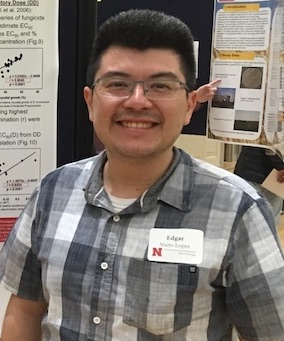
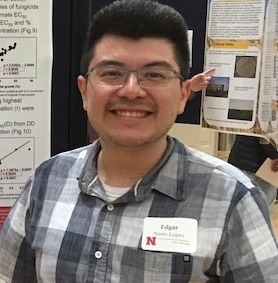
to update and add photos

diff --git a/expectations.html b/expectations.html
@@ -353,17 +353,19 @@ div.tocify {
 </div>
 <div id="work-hours" class="section level3">
 <h3>Work hours</h3>
-<p>GRAs are part-time salaried positions that expect 19.6 hours of work per week during the academic year and for 40 hours per week during academic breaks and summer sessions. Additional time directed towards research is expected when you are enrolled in credit hours for research and/or thesis/dissertation writing. Because a GRA is a salaried position, these work hours are the expectation and not recorded on a time sheet. The actual amount of time spent on research can vary considerably. You are expected to manage your time effectively. Poor time management at the beginning of a graduate program can be especially damaging because even as little as 10 minutes per day spent off task adds up to more than a week of time lost by the end of the year. Now, consider what an opportunity that time offers! <strong><em><span style="color:black">If you spend just 10 minutes per day on writing your first manuscript, you’ll have spent more than an entire 40-hour work week by the end of the first year.</span></em></strong> Moreover, there is no fixed amount of time required to complete your master’s or dissertation. Thus, the sooner you complete the outlined projects, the sooner you will graduate.<a href="#fn2" class="footnoteRef" id="fnref2"><sup>2</sup></a></p>
+<p>GRAs are part-time salaried positions that expect 19.6 hours of work per week during the academic year and for 40 hours per week during academic breaks and summer sessions. Additional time directed towards research is expected when you are enrolled in credit hours for research and/or thesis/dissertation writing. Because a GRA is a salaried position, these work hours are the expectation and not recorded on a time sheet. The actual amount of time spent on research can vary considerably from week-to-week, depending on the timing of important deadlines and requirements of the laboratory or field experiments.</p>
+<p>You are expected to manage your time effectively. Poor time management at the beginning of a graduate program can be especially damaging because even as little as 10 minutes per day spent off task adds up to more than a week of time lost by the end of the year. Now, consider what an opportunity that time offers! <strong><em><span style="color:black">If you spend just 10 minutes per day on writing your first manuscript, you’ll have spent more than an entire 40-hour work week by the end of the first year.</span></em></strong> Moreover, there is no fixed amount of time required to complete your master’s or dissertation. Thus, the sooner you complete the outlined projects, the sooner you will graduate.<a href="#fn2" class="footnoteRef" id="fnref2"><sup>2</sup></a></p>
 <p><br></p>
 </div>
 <div id="face-time" class="section level3">
 <h3>Face time</h3>
-<p>Students should develop strategies for optimal productivity. Graduate students in my lab are allowed to work from home or any other place that allows them increased productivity. However, there are benefits to being seen and present in our department on a regular basis (this is called “face time”). Your colleagues and professors will notice if you are working in the building daily and you will gain a reputation as being hard working and reliable. <strong><em><span style="color:black">This reputation will be useful once you are looking for a job and may need references from more than one professor in the department.</span></em></strong> Being present in the department daily will also increase your opportunity for collaboration with other students and enable you to learn from others you interact with. Naturally, newer students will be present at the department more often than those who have only the thesis or dissertation left to complete. However, being present without being productive is not a good use of time and will not lead to benefits. For this reason, it is your responsibility to set a work schedule for yourself that will maximize both productivity and visibility.</p>
+<p>Students should develop strategies for optimal productivity. Graduate students in my lab are allowed to work from home or any other place that allows them increased productivity. However, there are benefits to being seen and present in our department on a regular basis (this is called “face time”). Your colleagues and professors will notice if you are working in the building daily and you will gain a reputation as being hard working and reliable. <strong><em><span style="color:black">This reputation will be useful once you are looking for a job and may need references from more than one professor in the department.</span></em></strong></p>
+<p>Being present in the department daily will also increase your opportunity for collaboration with other students and enable you to learn from others you interact with. Naturally, newer students will be present at the department more often than those who have only the thesis or dissertation left to complete. However, being present without being productive is not a good use of time and will not lead to benefits. For this reason, it is your responsibility to set a work schedule for yourself that will maximize both productivity and visibility.</p>
 <p><br></p>
 </div>
 <div id="sick-leave" class="section level3">
 <h3>Sick leave</h3>
-<p>I do not expect you to work while you are sick. It’s better to stay home and recover. You should notify me via email if you will be out of the office due to illness. If longer periods of leave are needed, such as for family/child illness, medical issues, or funeral leave, please let me know so we can discuss a plan for your work to avoid setbacks.</p>
+<p>I do not expect you to work while you are sick. It’s better to stay home and recover. You should notify me via email if you will be out of the office due to illness. If longer periods of leave are needed, such as for family/child illness, medical issues, mental health, or funeral leave, please let me know so we can discuss a plan for your work to avoid setbacks.</p>
 <p><br></p>
 </div>
 <div id="requesting-vacation-time" class="section level3">
@@ -373,7 +375,8 @@ div.tocify {
 </div>
 <div id="vacation-time-estimate" class="section level3">
 <h3>Vacation time estimate</h3>
-<p>It is unlikely for you to receive approval of a request for more vacation time than an employee with a full-time 12-month appointment would accumulate. For example, in the 1st through 5th year of employment, <strong><em><span style="color:black">full-time employees accrue one vacation day per month</span></em></strong>. Thus, a person who began employment on August 15th would accrue four vacation days by December 15th. This time can be combined with UNL holidays (when UNL is closed) for a total time off of 2-weeks during the winter break. This amount of vacation during the winter holiday assumes no vacation time was taken prior to the winter holiday. The following year, it would be possible to take up to 3 weeks off during the winter break. Since time during academic breaks, winter holiday, and summers offer the opportunity and expectation to complete more research (40 hours per week), taking this time off can be costly to your research progress. Attending class is also expected, so classes should not be skipped for vacation either. For this reason, approval of vacation time is based performance and progress towards the degree.</p>
+<p>It is unlikely for you to receive approval of a request for more vacation time than an employee with a full-time 12-month appointment would accumulate. For example, in the 1st through 5th year of employment, <strong><em><span style="color:black">full-time employees accrue one vacation day per month</span></em></strong>. Thus, a person who began employment on August 15th would accrue four vacation days by December 15th. This time can be combined with UNL holidays (when the University offices are closed) for a total time off of 2-weeks during the winter break. This amount of vacation during the winter holiday assumes no vacation time was taken prior to the winter holiday. The following year, it would be possible to take up to 3 weeks off during the winter break.</p>
+<p>Since time during academic breaks, winter holiday, and summers offer the opportunity and expectation to complete more research (40 hours per week), taking this time off can be costly to your research progress. Attending class is also expected, so classes should not be skipped for vacation either. For this reason, approval of vacation time is based performance and progress towards the degree.</p>
 <p><br></p>
 </div>
 <div class="footnotes">

diff --git a/people.html b/people.html
@@ -353,62 +353,82 @@ div.tocify {
 </ul>
 <p><br></p>
 </div>
-<div id="postdoctoral-scholars" class="section level3">
-<h3>Postdoctoral Scholars</h3>
-<div class="figure">
-<img src="images/ThomasMiorini_InoculatingFlowers.JPG" title="Thomas J.J. Miorini" class="custom_circle grow" />
-
-</div>
+<div id="research-technologist" class="section level3">
+<h3>Research Technologist</h3>
 <ul>
-<li><a href="https://plantpathology.unl.edu/thomas-justo-miorini">Thomas J.J. Miorini</a>, Ph.D., April 2016 to April 2017; January 2018 to <strong>present</strong></li>
+<li>Rebecca Higgins, October 2018 to <strong>present</strong>. Becky is responsible for the <em>Sclerotinia sclerotiorum</em> bean line evaluation research and maintains the culture collection.</li>
 </ul>
-<div class="figure">
-<img src="images/ZhianKamvar2017.jpg" title="Zhian N. Kamvar" class="custom_circle grow" />
-
-</div>
-<ul>
-<li><a href="https://zkamvar.github.io/"> Zhian N. Kamvar</a>, Ph.D., Jan. 2017 to <strong>present</strong></li>
-</ul>
+<p><br></p>
 <div class="figure">
 <img src="images/MargaritaMarroquin-Guzman_2017.jpeg" title="Margarita Marroquin-Guzman" class="custom_circle grow" />
 
 </div>
+</div>
+<div id="postdoctoral-scholars" class="section level3">
+<h3>Postdoctoral Scholars</h3>
 <ul>
-<li>Margarita Marroquin-Guzman, Ph.D., June 2017 to <strong>present</strong></li>
+<li>Margarita Marroquin-Guzman, Ph.D., June 2017 to <strong>present</strong>. Margarita is currently working on the meta-community analysis of the microbial communities associated with different cover crops in Nebraska.</li>
 </ul>
 <p><br></p>
 </div>
-<div id="graduate-assistants" class="section level3">
-<h3>Graduate Assistants</h3>
-<ul>
-<li><a href="https://plantpathology.unl.edu/nikita-gambhir"> Nikita Gambhir</a>, Doctoral student, August 2015 to <strong>present</strong></li>
-</ul>
+<div id="graduate-students" class="section level3">
+<h3>Graduate Students</h3>
 <div class="figure">
 <img src="images/NikitaGambhir2016.JPG" title="Nikita Gambhir" class="custom_circle grow" />
 
 </div>
 <ul>
-<li><a href="https://www.researchgate.net/profile/Edgar_Nieto_Lopez2"> Edgar H. Nieto-Lopez</a>, Doctoral student, August 2016 to <strong>present</strong></li>
+<li><a href="https://plantpathology.unl.edu/nikita-gambhir"> Nikita Gambhir</a>, Doctoral student, August 2015 to <strong>present</strong>. Nikita’s doctoral research is in genome analysis of <em>S. sclerotiorum</em> mutational lines. She is also characterizing the population structure and fungicide sensitivity <em>Rhizoctonia zeae</em> that she has collected from Nebraska.</li>
 </ul>
 <div class="figure">
 <img src="images/EdgarNieto2017.jpg" title="Edgar Nieto Lopez" class="custom_circle grow" />
 
 </div>
-<p><br></p>
-</div>
-<div id="undergrad-assistants" class="section level3">
-<h3>Undergrad Assistants</h3>
 <ul>
-<li><p>Audrey Vega, Biological Systems Engineering Major, Nov. 2017 to <strong>present</strong></p></li>
-<li><p>Isabel Chavez, Biological Systems Engineering Major, Nov. 2017 to <strong>present</strong></p></li>
+<li><a href="https://www.researchgate.net/profile/Edgar_Nieto_Lopez2"> Edgar H. Nieto-Lopez</a>, Doctoral student, August 2016 to <strong>present</strong>. Edgar is conducting a project to assess fungicide sensitivity and population structure of <em>S. sclerotiorum</em> from soybean, potato, and dry bean in the North Central States and Mexico. This is much needed work to improve our understanding of the basic epidemiology of this pathogen.</li>
 </ul>
-<p><br> <br></p>
+<div class="figure">
+<img src="images/Karen%20Ferreira%20Da%20Silva.jpg" title="Karen Ferreira Da Silva" class="custom_circle grow" />
+
+</div>
+<ul>
+<li>Karen F. Da Silva, Doctoral student, June 2018 to <strong>present</strong>. Karen comes to the lab with an ongoing project to improve out understanding of the <em>Clavibacter michiganensis</em> pv. <em>nebraskensis</em> interaction with the fall armyworm on corn. Within my lab, she has developed a project to survey of leadership needs and training of graduate students in the agSTEM sciences and will be conducting a meta-analysis of previous <em>S. sclerotiorum</em> population genetic studies.</li>
+</ul>
+<p><br></p>
+<div class="figure">
+<img src="images/RachelPersson.jpeg" title="Rachel Persson" class="custom_circle grow" />
+
+</div>
+</div>
+<div id="undergraduate-lab-assistants" class="section level3">
+<h3>Undergraduate Lab Assistants</h3>
+<ul>
+<li>Rachel Persson, undergraduate in Biochemistry, May 2018 to <strong>present</strong>. Rachel received competitive research funding from the UNL UCARE program. She is</li>
+</ul>
+<p><br></p>
 <hr />
+<p><br></p>
 </div>
 <div id="past-members" class="section level3">
 <h3>Past Members</h3>
 <p><em>Listed in reverse chronological order:</em></p>
 <ul>
+<li><strong>Audrey Vega</strong>, lab assistant and Biological Systems Engineering Major, Nov. 2017 to May 2018</li>
+</ul>
+<div class="figure">
+<img src="images/ZhianKamvar2017.jpg" title="Zhian N. Kamvar" class="custom_circlesm grow" />
+
+</div>
+<ul>
+<li><strong>Isabel Chavez</strong>, lab assistant and undergraduate in Biological Systems Engineering Major, November 2017 to May 2018</li>
+</ul>
+<div class="figure">
+<img src="images/ThomasMiorini_InoculatingFlowers.JPG" title="Thomas J.J. Miorini" class="custom_circlesm grow" />
+
+</div>
+<ul>
+<li><p><strong>Zhian N. Kamvar</strong>, <em>Postdoctoral Scholar</em> January 2017 to April 2018. Zhian is now working with Thiabaut Jombart in the UK.</p></li>
+<li><p><strong>Thomas J. J. Miorini</strong>, <em>Postdoctoral Scholar</em> April 2016 to April 2017; January 2018 to April 2018. Thomas is now working with Dr. Michael Wunsch at North Dakota State University.</p></li>
 <li><p><strong>Alex N. Johnson</strong>, <em>Lab Assistant</em> July 2017 to January 2018. Alex will be attending medical school this fall.</p></li>
 <li><p><strong>Jimin Kamvar</strong>, <em>Digital Communications Liaison</em> and content manager for UNL Department of Plant Pathology website, September to December, 2017.</p></li>
 <li><p><strong>Anthony Pannullo</strong>, undergraduate in Biological Sciences and former lab assistant / honors thesis student from March 2016 to July 2017. Anthony is now a graduate student in the microbiology program at the University of Iowa.</p></li>

diff --git a/index.html b/index.html
@@ -364,17 +364,20 @@ div.tocify {
 <div id="june-2018" class="section level4">
 <h4>June 2018</h4>
 <ul>
-<li><p>The Everhart Lab is headed to Fargo, ND this June to attend the APS North Central Division Meeting. Among abstracts submitted, Edgar’s was selected for a prestigious oral presentation. He will be presenting a talk entitled, “Fungicide sensitivity of 42 Sclerotinia sclerotiorum isolates in the North Central U.S. and determination of discriminatory concentrations.”</p></li>
-<li><p>Joining the Everhart Lab is Karen Ferreira Da Silva. Karen comes to us with research experience working in the labs of Drs. Gary Yuen and Josh Herr, and having received her M.S. in Entomology working with Dr. Blair Sigfreid. Projects that Karen will complete in my lab include a meta-analysis of gene expression data, a greenhouse study to evaluate interactions in the corn root worm x Goss’s wild pathogen on disease development, and a survey of leadership training provided to and needed for students in Plant Pathology and the broader agricultural STEM careers. Welcome Karen!</p></li>
+<li>The Everhart Lab is headed to Fargo, ND this June to attend the APS North Central Division Meeting. Among abstracts submitted, Edgar’s was selected for a prestigious oral presentation. He will be presenting a talk entitled, “Fungicide sensitivity of 42 Sclerotinia sclerotiorum isolates in the North Central U.S. and determination of discriminatory concentrations.”</li>
+</ul>
+<p><br> <img src="images/Karen%20Ferreira%20Da%20Silva.jpg" title="Karen Ferreira Da Silva joins Everhart Lab" class="custom_image shadow grow" /></p>
+<ul>
+<li>Joining the Everhart Lab is Karen Ferreira Da Silva. Karen comes to us with research experience working in the labs of Drs. Gary Yuen and Josh Herr, and having received her M.S. in Entomology working with Dr. Blair Sigfreid. Projects that Karen will complete in my lab include a meta-analysis of gene expression data, a greenhouse study to evaluate interactions in the corn root worm x Goss’s wild pathogen on disease development, and a survey of leadership training provided to and needed for students in Plant Pathology and the broader agricultural STEM careers. Welcome Karen!</li>
 </ul>
 </div>
 <div id="may-2018" class="section level4">
 <h4>May 2018</h4>
 <ul>
-<li>We are welcoming two new people to our lab this summer! Callie Braley and Rahcel Persson.</li>
+<li><p>We are welcoming two new people to our lab this summer! Callie Braley and Rahchel Persson. <br> <img src="images/RachelPersson.jpeg" title="Rachel Persson joins Everhart Lab" class="custom_imagesm shadow grow" /></p></li>
 <li>Callie is a student in the Doctor of Plant Health program and will be spending time learning about how research on fungicide sensitivity is conducted in the lab. She will also begin a small survey of Nebraska to see if she finds any QoI-resistant isolates of the frogeye leaf spot pathogen <em>Corynespora casiicola</em>.</li>
 <li>Rachel is an undergraduate student in biochemistry and received funding from the UNL UCARE program to conduct a small study where she will be comparing genotyping results from the Steadman Lab <em>Sclerotinia sclerotiorum</em> database to genotyping results in our lab in order to determine if genotyping results of the two can be compared and combined.</li>
-<li>This summer I’ll be teaching a new course in professional development, entitled <em>Success in the Sciences</em>. The fun part is that this is a coures that I am co-developing wtih two graduate students in the Complex Biosystems program, Kimberley Stanke and Ashley Stengel, with additional guidance on curriculum development and active learning techniques from Dr. Sydney Brown.</li>
+<li><p>This summer I’ll be teaching a new course in professional development, entitled <em>Success in the Sciences</em>. The fun part is that this is a coures that I am co-developing wtih two graduate students in the Complex Biosystems program, Kimberley Stanke and Ashley Stengel, with additional guidance on curriculum development and active learning techniques from Dr. Sydney Brown.</p></li>
 </ul>
 </div>
 <div id="april-2018" class="section level4">

diff --git a/courses.html b/courses.html
@@ -352,6 +352,8 @@ div.tocify {
 </div>
 <div id="ecology-management-of-plant-pathogens" class="section level3">
 <h3>Ecology &amp; Management of Plant Pathogens</h3>
+<div id="plpt802-is-offered-every-spring-semester" class="section level4">
+<h4><em>PLPT802 is offered every Spring semester</em></h4>
 <p>This is a graduate level course offered every spring on the biology, development, spread, and management of plant diseases, their causal agents and how environmental factors interact with diseases. The course is 3 credit hours and is required for students in the Plant Pathology degree specializations and the Doctor of Plant Health. Course format is a mixture of lectures, discussions, and student presentations. At right is a picture from one of our class exercises, where students turned epidemiology manuscripts into infographics!</p>
 <p><br></p>
 <div class="figure">
@@ -359,20 +361,27 @@ div.tocify {
 
 </div>
 </div>
+</div>
 <div id="disease-dynamics-evolution" class="section level3">
 <h3>Disease Dynamics &amp; Evolution</h3>
+<div id="taught-in-spring-2016-and-offered-on-demand" class="section level4">
+<h4><em>Taught in spring 2016 and offered on demand</em></h4>
 <p>This course was designed to cover core concepts of disease ecology and pathogen emergence and evolution for undergraduates in the Microbiology program. Concepts were organism-agnostic and important for understanding infectious diseases of humans, animals, and plants. The goal of this course is to use interesting and intriguing case studies of infectious diseases to develop critical thinking as scientists. The course was designed to be appropriate for a wide variety of biology students, with interests in ecology, environmental biology, animal, plant, and human biology to microbiology, pre-vet and pre-med. During the 2015-2016 academic year, I comprehensively reviewed this course while participating in the UNL Peer Review of Teaching program and used that information to develop a Benchmark Teaching Portfolio<a href="#fn1" class="footnoteRef" id="fnref1"><sup>1</sup></a>. This portfolio is <a href="http://digitalcommons.unl.edu/prtunl/20"> published online</a> on the UNL Digital Commons.</p>
 <p><br></p>
+</div>
 </div>
 <div id="intro.-to-r-for-population-genetics-and-epidemiology" class="section level3">
 <h3>Intro. to R for Population Genetics and Epidemiology</h3>
 <p>This course introduces students to the R programming language, with applications in population genetics and epidemiology. This course was offered in the summer of 2016 as a blended workshop / short-course. Students were taught basic skills in R syntax, data types (logical, character, numeric, etc.), data structures, sub-scripting, plotting, and packages. The goal of this course was to give students, faculty, staff, and postdocs, enough skills in R that they can access packages and resources of interest to each of them for their own research.</p>
 <p><br></p>
 </div>
-<div id="population-genetics-and-epidemiology" class="section level3">
-<h3>Population Genetics and Epidemiology</h3>
-<p>This course is being developed and will be offered in the Fall of 2018. More information coming soon!</p>
+<div id="success-in-the-sciences" class="section level3">
+<h3>Success in the Sciences</h3>
+<div id="taught-in-summer-of-2018" class="section level4">
+<h4><em>Taught in Summer of 2018</em></h4>
+<p>This course was co-developed with graduate students in order to best meet the needs of today’s students. Various topics were covered using active learning techniques in the classroom.</p>
 <p><br></p>
+</div>
 </div>
 <div id="disease-tour-across-nebraska" class="section level3">
 <h3>Disease Tour Across Nebraska</h3>

diff --git a/custom.css b/custom.css
@@ -13,7 +13,7 @@
 .custom_imagesm {
   float: right; 
   border: 1px solid black; 
-  max-width: 23%;
+  max-width: 21%;
   height: auto; 
   clear: both;
   border-radius: 5px;
@@ -69,9 +69,30 @@
 
 
 .custom_circle {
+  float: right;
+  border: 2px solid black; 
+  max-width: 15%;
+  height: auto; 
+  clear: both;
+  border-radius: 50%;
+  margin: 8px;
+  background: #000000;
+}
+
+.custom_circlesm {
   float: right; 
   border: 2px solid black; 
-  max-width: 18%;
+  max-width: 10%;
+  height: auto; 
+  clear: both;
+  border-radius: 50%;
+  margin: 8px;
+  background: #000000;
+}
+
+.custom_circlefl {
+  border: 2px solid black; 
+  max-width: 15%;
   height: auto; 
   clear: both;
   border-radius: 50%;
